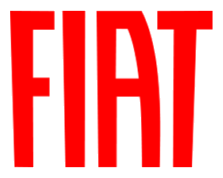
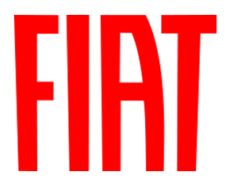
ModCarouselLogos

Changed region(s): [[0.4305, 0.0562, 0.9686, 0.9551], [0.0269, 0.0562, 0.4036, 0.9551], [0.5112, 0.1404, 0.6457, 0.4494]]

diff --git a/src/routes/index.tsx b/src/routes/index.tsx
@@ -288,13 +288,13 @@ function Home() {
                 logos={CLIENTS.map((cl) => (
                   <span
                     key={cl.name}
-                    className="inline-flex h-24 w-48 items-center justify-center rounded-2xl border border-border bg-card px-6"
+                    className="inline-flex h-16 w-32 items-center justify-center rounded-xl border border-border bg-card px-4"
                   >
                     <img
                       src={cl.src}
                       alt={c.clients.logoAlt(cl.name)}
                       loading="lazy"
-                      className="max-h-14 w-auto object-contain"
+                      className="max-h-10 w-auto object-contain"
                     />
                   </span>
                 ))}
